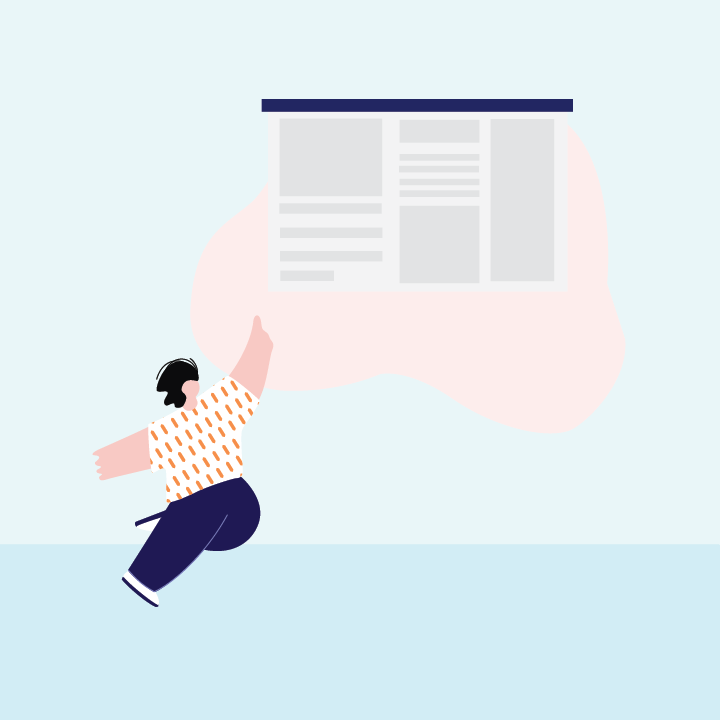
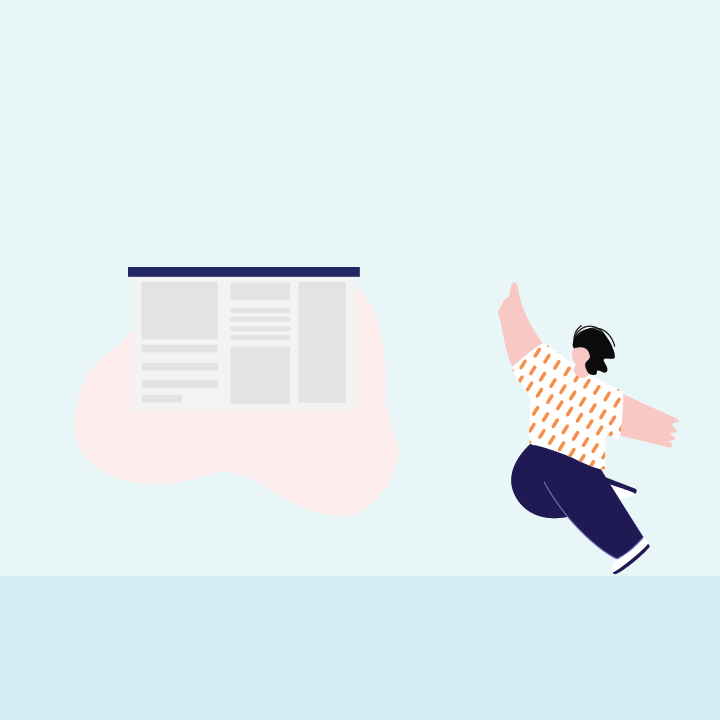
New rooms, buttons

Changed region(s): [[0.1222, 0.3667, 0.5194, 0.8556], [0.6722, 0.3972, 0.9472, 0.7944], [0.3667, 0.1222, 0.7944, 0.1528]]

diff --git a/p5.2DAdventure.js b/p5.2DAdventure.js
@@ -18,7 +18,8 @@ class AdventureManager {
         this.states = [];
         this.statesTable = loadTable(statesFilename, 'csv', 'header');
         this.interactionTable = loadTable(interactionFilename, 'csv', 'header');
-        
+        this.savedPlayerSpritePosition = createVector(width/2, height/2);
+
         if( clickableLayoutFilename === null ) {
             this.clickableTable = null;
         }
@@ -46,21 +47,16 @@ class AdventureManager {
             // this is the allocator itself
             this.states[validStateCount] = eval("new " + className);
             
+            // store name of the state in the PNGRoom
+            this.states[validStateCount].setName(this.statesTable.getString(i, 'StateName'));
+
             // All classes (for now) have a PNGFilename, could add a blank room
-            this.states[validStateCount].setup(this.statesTable.getString(i, 'PNGFilename'));
+            this.states[validStateCount].setup( this.statesTable.getString(i, 'PNGFilename'),
+                                                this.statesTable.getString(i, 'CollisionFilename'));
+           
+            this.states[validStateCount].preload();
 
-             this.states[validStateCount].preload();
-
-/*
-            if( className === "PNGRoom" ) {
-                // load the file from the table
-                this.states[validStateCount].setup(this.statesTable.getString(i, 'PNGFilename'));
-            }
-            else if( className == "MazeRoom" ) {
-                // do setup here
-            }
-*/
-             validStateCount++;
+            validStateCount++;
         }
     
         if( validStateCount > 0 ) {
@@ -71,8 +67,6 @@ class AdventureManager {
         else {
             this.hasValidStates = false;
         }
-
-        
 
         return this.hasValidStates;
     }
@@ -99,8 +93,23 @@ class AdventureManager {
         }
         else {
             this.checkPlayerSprite();
+
+            // this will reset the player position, if we go outside of a collision rect
+            if( this.states[this.currentState].checkForCollision(this.playerSprite) === true ) {
+                // set to last good position
+                this.playerSprite.position.x = this.savedPlayerSpritePosition.x;
+                this.playerSprite.position.y = this.savedPlayerSpritePosition.y;
+            }
+            else {
+                // save the last poisition for checkCollision in the future
+                this.savedPlayerSpritePosition.x = this.playerSprite.position.x;
+                this.savedPlayerSpritePosition.y = this.playerSprite.position.y;
+            }
+
             background(this.backgroundColor);
             this.states[this.currentState].draw();
+            
+
         }
     }
 
@@ -173,7 +182,12 @@ class AdventureManager {
     // 2nd param is a flag to bypass the comparison to currentStateNum, usually used at startup
     changeState(newStateStr, bypassComparison = false) {
         let newStateNum = this.getStateNumFromString(newStateStr);
-        print( "new state num = " + newStateNum);
+        this.changeStateByNum(newStateNum, bypassComparison);
+    }
+
+    // default is by string
+    changeStateByNum(newStateNum, bypassComparison = false) {
+        print( "passed new state num = " + newStateNum);
         if( newStateNum === -1 ) {
             print("can't find stateNum from string: " + newStateStr);
 
@@ -182,18 +196,26 @@ class AdventureManager {
             return;
         }
 
-        print("new state = " + newStateStr);
+        print("set new state = " + newStateNum);
 
         this.states[this.currentState].unload();
         this.states[newStateNum].load();
         this.currentState = newStateNum;
 
         // store new state name from states table
-        this.currentStateName = newStateStr;
+        this.currentStateName = this.getStateStrFromNum(newStateNum);
 
         if( this.clickableArray !== null && this.clickableTable !== null ) {
             this.changeButtonsVisibilityFromState(this.currentStateName);
         }
+    }
+
+    getNumStates() {
+        return this.statesTable.getRowCount();
+    }
+
+    getCurrentStateNum() {
+        return this.currentState;
     }
 
     getStateNumFromString(stateStr) {
@@ -207,7 +229,19 @@ class AdventureManager {
         return -1;
     }
 
+    getStateStrFromNum(stateNum) {
+        return this.statesTable.getString(stateNum, 'StateName');
+    }
+
+    // returns class name of current state
+    getClassName() {
+        return this.statesTable.getString(this.currentState, 'ClassName');
+    }
+
     checkPlayerSprite() {
+        if( this.playerSprite === null ) {
+            return;
+        }
         let direction = this.checkSpriteBounds();
         
         // empty string returned if we are in the room still
@@ -278,15 +312,19 @@ class AdventureManager {
         }
         else if(this.playerSprite.position.x > width+1 ) {
             this.playerSprite.position.x = width;
-            //this.changeState("Maze_NE");
         }
         else if(this.playerSprite.position.y < -1 ) {
             this.playerSprite.position.y = 0;
         }
         else if(this.playerSprite.position.y > height ) {
             this.playerSprite.position.y = height;
-            //this.changeState("Maze_NE");
         }
+    }
+
+    // returns the "short" filename (no precesing directory for the current state)
+    getPNGFilename() {
+        let longFilename = this.statesTable.getString(this.currentState, 'PNGFilename');
+        return longFilename.substring(longFilename.lastIndexOf('/')+1);
     }
 
     // logic here is this (1) look at the clickables table to find the state name
@@ -313,44 +351,118 @@ class AdventureManager {
             // Otherwise, we are binding, so turn button on/off accordingly
             if( clickableStateArray[i] === newStateName ) {
                 this.clickableArray[i].visible = true;
-                print("set to visible");
+                //print("set to visible");
             }
             else {
                 this.clickableArray[i].visible = false;   
-                print("set to hide");
+               // print("set to hide");
             }
         }
-        
-        // (1) make sure column exists
-        // (2) go through table
-        // (3) for each entry, find index match in clickables
-/*
-               ID,Name,State,PNGFilename,Text,x,y,visible
-0,StartGame,Instructions,,Start Game,100,650,yes
-1,SelectAvatar,Instructions,,Select Avatar,300,650,yes
-2,Done,AvatarSelection,,Done,500,650,yes
-*/
     }
 }
 
+// this will be used with the loadTable() callback for the collision table
+// class variables are not available for callbacks
+// need a global variable with a ridiculous name to avoid name conflicts
+// save the this data
+var PNGRoomPushedThisArray = [];
+
+function PNGRoomFindTheThis() {
+    for( let i = 0; i < PNGRoomPushedThisArray.length; i++ ) {
+        // do stuff
+        if( PNGRoomPushedThisArray[i].collisionTableLoaded === false ) {
+            return PNGRoomPushedThisArray[i];
+        }
+    }
+
+    // test return
+    return null;
+}
+
+function PNGCollisionTableLoaded() {
+    print("PNGCollisionTableLoaded()");
+    let pThis = PNGRoomFindTheThis();
+    if(pThis === null ) {
+        print("Couldn't find the This");
+    }
+    else {
+        print("this =");
+        print(pThis);
+    }
+
+     if( pThis.collisionTable !== null) { 
+        pThis.output("collisionTableLoaded(): collision table row count = " + pThis.collisionTable.getRowCount());
+        for( let i = 0; i < pThis.collisionTable.getRowCount(); i++ ) {
+            pThis.collisionSX[i] = pThis.collisionTable.getString(i, 'sx');
+            pThis.collisionSY[i] = pThis.collisionTable.getString(i, 'sy');
+            pThis.collisionEX[i] = pThis.collisionTable.getString(i, 'ex');
+            pThis.collisionEY[i] = pThis.collisionTable.getString(i, 'ey');
+        }
+
+        pThis.collisionTableLoaded = true;
+    }
+}
 
 class PNGRoom {
     constructor() {
-        this.image = null;
+        // Image stuff
         this.imagePath = null;
+        this.image = null;
+
+        // collision stuff
+        this.collisionTable = null;
+        this.collisionSX = [];
+        this.collisionSY = [];
+        this.collisionEX = [];
+        this.collisionEY = [];
+    
+        // flag for first-time load for collision table proper loading
+        this.loaded = false;
+        this.stateName = "";
+        this.collisionTableLoaded = false;
     }
 
-    setup(_imagePath) {
-        this.imagePath = String(_imagePath);
+    setName(s) {
+        this.stateName = s;
     }
 
+    // filepath to PNG is 1st variable
+    // file to collision CSV is 2nd variable (may be empty string)
+    setup(_imagePath, _collisionPath = "") {
+        print( "setup()" + _imagePath);
+
+        this.imagePath = _imagePath;
+
+        // use for callbacks
+        // PNGRoomPushedNameList.push(this.stateName);
+        // PNGRoomPushedThis.push(this);
+
+        if( _collisionPath !== "" ) {
+           // PNGRoomPushedThis = this;
+           
+           PNGRoomPushedThisArray.push(this);
+            this.collisionTable = loadTable(_collisionPath, 'csv', 'header', PNGCollisionTableLoaded);
+            this.output("setup(), loading collision table = " + _collisionPath);
+        }
+    }
+    
     // empty, sublcasses can override
     preload() {
        
     }
 
+
+
+
     load() {
         this.image = loadImage(this.imagePath);
+        // this loads the collision table, we use the flag b/c loadTable needs
+        // time to load the data and won't work properly for a few cycles
+        // if( this.loaded === false ) {
+        //     // load the collisions
+            
+        //     this.loaded = true; 
+        // }
     }
 
     unload() {
@@ -366,16 +478,37 @@ class PNGRoom {
         push();
         imageMode(CENTER);
         image(this.image,width/2,height/2);
-        pop();
+
+        //imageMode(CORNER);
+        //fill(255,0,0);
+        // draw rects to see...
+
+        pop(); 
+    }
+
+    // Go through our array and ook to see if we are in bounds anywhere
+    checkForCollision(ps) {
+        if( ps !== null ) {  
+            for(let i = 0; i < this.collisionSX.length; i++ ) {
+                if( ps.position.x >= this.collisionSX[i] &&  ps.position.x <= this.collisionEX[i] ) {
+                    if( ps.position.y >= this.collisionSY[i] &&  ps.position.y <= this.collisionEY[i] ) {
+                        //print("collsion at shape " + i);
+                        return true;
+                    }
+                }
+            }
+        }
+
+        return false; 
+    }
+
+    
+    // output to DebugScreen or console window, if we have no debug object
+    output(s) {
+        print(s);
     }
 }
 
-class MazeRoom extends PNGRoom {
-    constructor() {
-        super();
-        this.image = null;
-        this.imagePath = null;
-    }
-}
+
 
 
